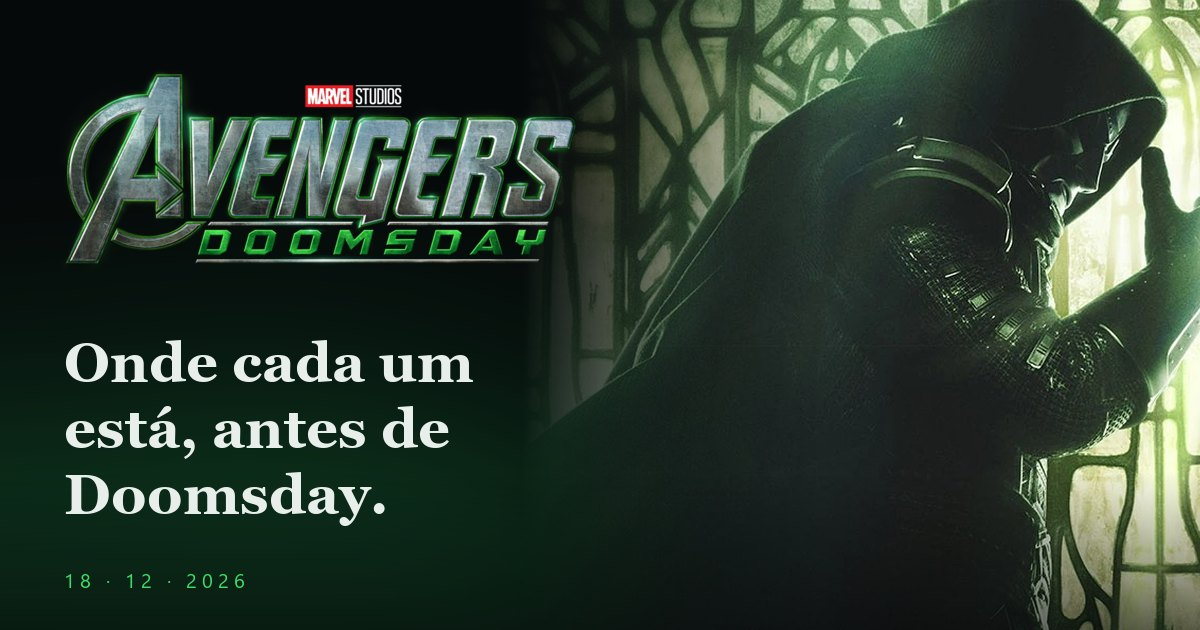
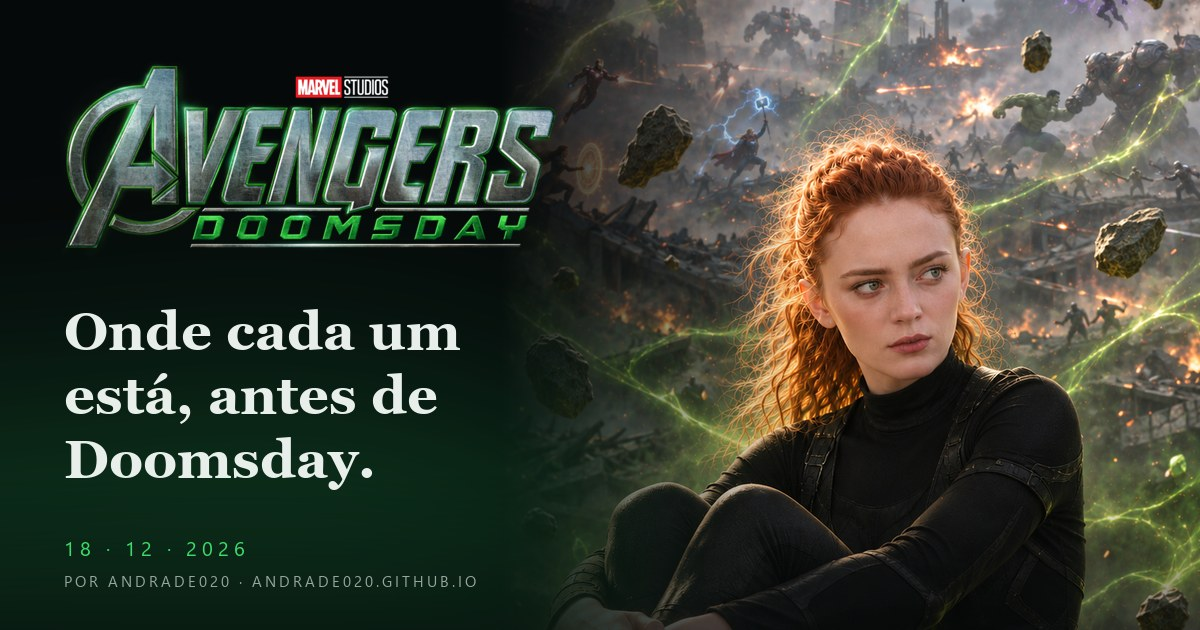
Arte de capa na prévia do link, crédito do autor no rodapé e nos créditos
Nova imagem de compartilhamento (og/home.jpg) com a arte do autor, página de
créditos com a arte, link para andrade020.github.io no rodapé, README e licença.

diff --git a/src/main.js b/src/main.js
@@ -58,8 +58,8 @@ const nav = (active) => `
 const footer = () => `
   <footer class="foot">
     <img src="${BASE}brand/mark.png" alt="" />
-    <p>Projeto de fã, sem fins comerciais e para uso pessoal. Marcas, logos e imagens © Marvel Studios / Disney.
-    <a href="#/creditos">Créditos das imagens</a></p>
+    <p>Projeto de fã criado por <a class="autor" href="https://andrade020.github.io/" target="_blank" rel="noopener">Andrade020</a> · <a class="autor" href="https://andrade020.github.io/" target="_blank" rel="noopener">andrade020.github.io</a>.
+    Sem fins comerciais. Marcas, logos e imagens © Marvel Studios / Disney. <a href="#/creditos">Créditos das imagens</a></p>
   </footer>`;
 
 const NOME_SITE = 'Rumo a Doomsday';
@@ -381,6 +381,10 @@ async function creditsPage() {
   app.innerHTML = `${nav('')}
     <section class="page-head"><h1>Créditos</h1>
       <p class="sub">Pôsteres, logos e imagens de personagens e de quadrinhos: © Marvel Studios / Disney, obtidos do MCU Wiki e do Marvel Database (Fandom), só para uso pessoal; não publique sem licença. Vídeo: canal oficial Marvel Entertainment. Fotos de atores: licença livre (Wikimedia Commons), abaixo.</p></section>
+    <section class="credit-art">
+      <img src="${BASE}img/arte-site.jpg" alt="Arte de capa do site" />
+      <p><b>Arte de capa e de compartilhamento</b><br>Imagem gerada com IA por <a href="https://andrade020.github.io/" target="_blank" rel="noopener">Andrade020</a> (<a href="https://andrade020.github.io/" target="_blank" rel="noopener">andrade020.github.io</a>), com personagens © Marvel / Disney. Conheça mais do trabalho do autor no site.</p>
+    </section>
     <section class="tl wide" id="cr"><p class="muted">Carregando…</p></section>${footer()}`;
   try {
     const d = await (await fetch(`${BASE}img/CREDITOS.json`)).json();

diff --git a/src/style.css b/src/style.css
@@ -233,3 +233,12 @@ a:focus-visible, button:focus-visible, .htrack:focus-visible { outline:2px solid
   .hero-bg { left:0; bottom:auto; height:48%; background-size:170% auto; background-position:88% 0; opacity:.55;
     -webkit-mask-image:linear-gradient(#000 40%,transparent 100%); mask-image:linear-gradient(#000 40%,transparent 100%); -webkit-mask-composite:source-over; mask-composite:add; }
 }
+
+/* créditos do autor */
+.foot a.autor { margin-left:0; color:var(--fg); border-bottom:1px solid var(--g2); }
+.foot a.autor:hover { color:var(--g); }
+.credit-art { max-width:1000px; margin:26px auto 0; padding:0 32px; display:grid; grid-template-columns:minmax(150px,220px) 1fr; gap:26px; align-items:center; }
+.credit-art img { width:100%; border:1px solid var(--line); aspect-ratio:9/16; object-fit:cover; }
+.credit-art p { margin:0; color:#b4c0b8; } .credit-art b { color:var(--fg); }
+.credit-art a { color:var(--g); border-bottom:1px solid var(--g2); }
+@media (max-width:600px) { .credit-art { grid-template-columns:1fr; padding:0 18px; } .credit-art img { max-width:220px; } }

diff --git a/index.html b/index.html
@@ -7,6 +7,7 @@
     <!--META-->
     <meta name="theme-color" content="#06090a" />
     <meta name="color-scheme" content="dark" />
+    <meta name="author" content="Andrade020" />
     <link rel="icon" href="/favicon.ico" sizes="any" />
     <link rel="icon" type="image/png" href="/icon-192.png" />
     <link rel="apple-touch-icon" href="/apple-touch-icon.png" />

diff --git a/scripts/gerar_og.py b/scripts/gerar_og.py
@@ -105,17 +105,18 @@ header(im); card_texto(im, 'Doutor Destino', 'Victor von Doom · Robert Downey J
 im.save('public/og/destino.jpg', quality=86, optimize=True)
 
 # ---------- início ----------
-poster = Image.open('public/brand/poster.jpg'); poster = poster.crop((0, 0, poster.width, int(poster.height * 0.37)))  # só a figura, sem o logo impresso
-im = base(); art_right(im, poster, 520, 0.0, 300, 0.9)
-logo = Image.open('public/brand/logo.png').convert('RGBA'); logo.thumbnail((520, 220))
-im.paste(logo, (56, 70), logo)
+arte = Image.open('arquivo-original/thumbnail/arte_site.png')   # arte de capa (vertical): rosto e ombro à direita
+im = base(); art_right(im, arte, 500, 0.30, 300, 0.5)
+logo = Image.open('public/brand/logo.png').convert('RGBA'); logo.thumbnail((500, 210))
+im.paste(logo, (56, 62), logo)
 d = ImageDraw.Draw(im)
-f = SERIF_B(56)
-y = 330
+f = SERIF_B(54)
+y = 300
 for l in wrap(d, 'Onde cada um está, antes de Doomsday.', f, 520):
-    d.text((64, y), l, font=f, fill=WHITE); y += 66
-footer(im)
-im.save('public/og/home.jpg', quality=86, optimize=True)
+    d.text((64, y), l, font=f, fill=WHITE); y += 64
+spaced(d, (64, H - 96), '18 · 12 · 2026', SANS(20), GREEN, 5)
+spaced(d, (64, H - 60), 'POR ANDRADE020 · ANDRADE020.GITHUB.IO', SANS(15), MUTED, 3)
+im.save('public/og/home.jpg', quality=88, optimize=True)
 
 # ---------- linha do tempo ----------
 slugs = ['ultimato', 'nwh', 'tbolts', 'ff', 'doomsday']

diff --git a/README.md b/README.md
@@ -58,3 +58,7 @@ node scripts/validar.mjs                      # checa ids/grupos dos dados
 
 ## Aviso legal
 Projeto de fã, sem fins comerciais e sem qualquer vínculo com a Marvel ou a Disney. Nomes, personagens, logos, pôsteres e arte de quadrinhos são © Marvel / Disney e aparecem aqui apenas para identificar e comentar as obras; não são cobertos pela licença do código (MIT). Fotos de atores: Wikimedia Commons, com licenças e créditos em `public/img/CREDITOS.json`. Se você é titular de direitos e deseja a remoção de algum material, abra uma issue.
+
+## Autor
+Criado por **Andrade020**. Conheça mais do meu trabalho em **https://andrade020.github.io/**.
+A arte de capa e de compartilhamento do site foi gerada com IA por mim (personagens © Marvel / Disney).
